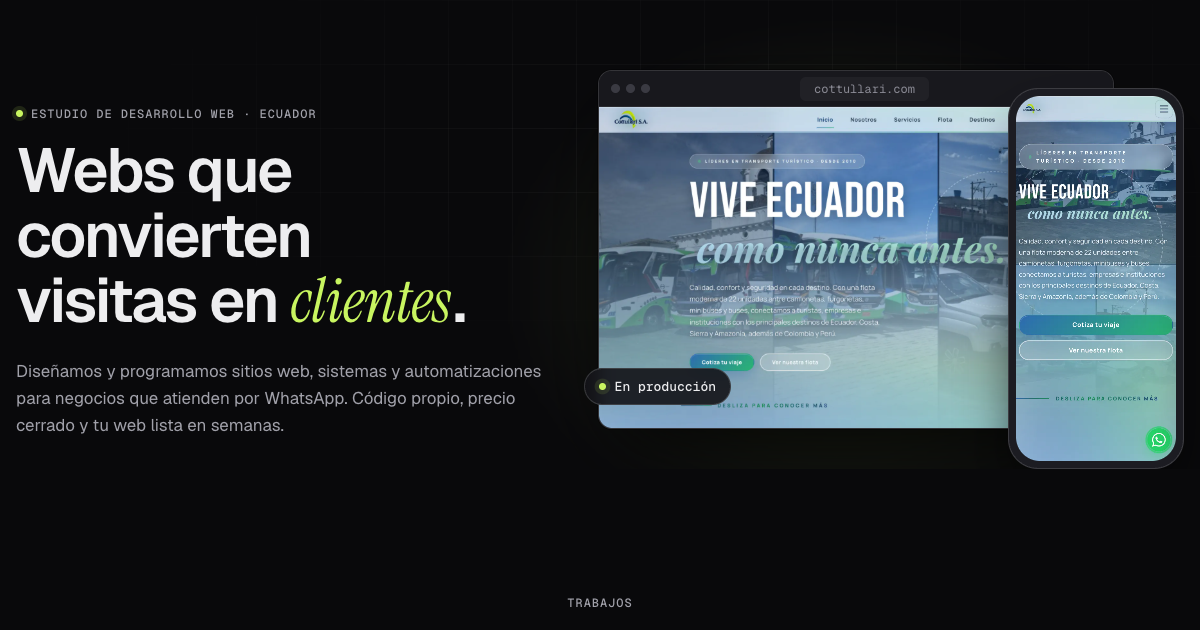
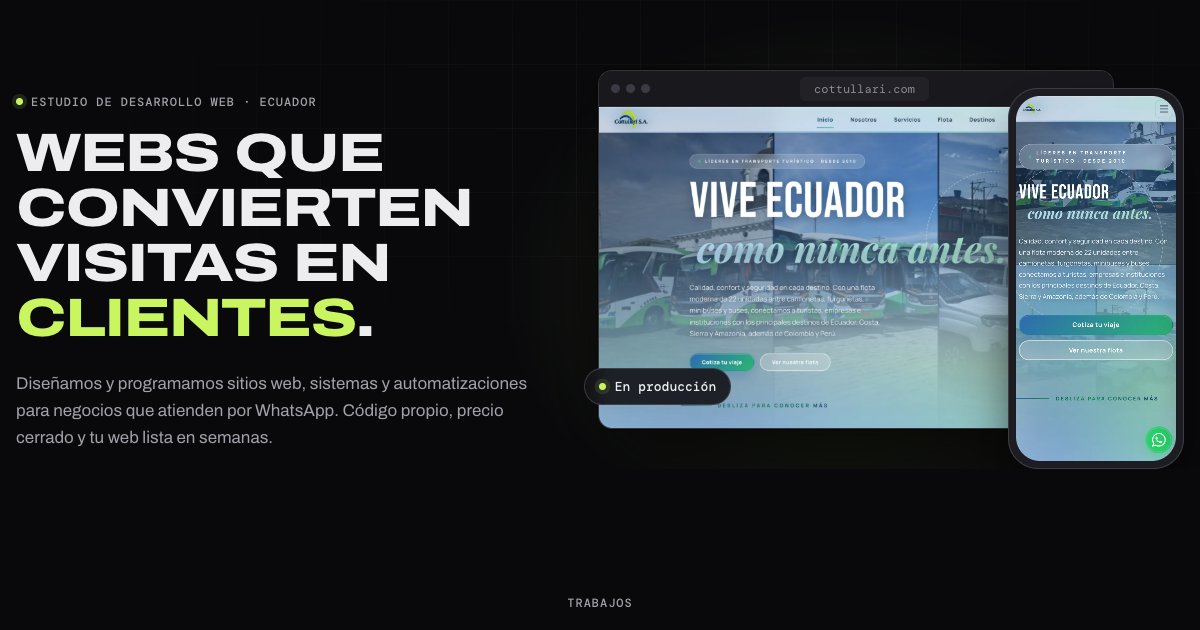
Tipografía propia: Archivo Expanded en títulos y DM Mono, sin serif itálica

Changed region(s): [[0.0, 0.1508, 0.4008, 0.5429], [0.0, 0.573, 0.4625, 0.7238], [0.5242, 0.6032, 0.5858, 0.6333]]

diff --git a/css/v2.css b/css/v2.css
@@ -13,9 +13,8 @@
   --acc-ink: #0b0d05;
   --acc-soft: rgba(200, 245, 96, .12);
   --r: 16px;
-  --sans: "Geist", ui-sans-serif, system-ui, -apple-system, "Segoe UI", sans-serif;
-  --mono: "Geist Mono", ui-monospace, SFMono-Regular, Menlo, monospace;
-  --serif: "Instrument Serif", Georgia, serif;
+  --sans: "Archivo", ui-sans-serif, system-ui, -apple-system, "Segoe UI", sans-serif;
+  --mono: "DM Mono", ui-monospace, SFMono-Regular, Menlo, monospace;
   --wrap: 1180px;
   --ease: cubic-bezier(.2, .7, .2, 1);
 }
@@ -24,9 +23,10 @@ html { scroll-behavior: smooth; -webkit-text-size-adjust: 100%; }
 body { margin: 0; background: var(--bg); color: var(--text); font: 400 16px/1.6 var(--sans); -webkit-font-smoothing: antialiased; overflow-x: hidden; }
 img { display: block; max-width: 100%; height: auto; }
 a { color: inherit; text-decoration: none; }
-h1, h2, h3 { margin: 0; font-weight: 600; letter-spacing: -.035em; line-height: 1.05; text-wrap: balance; }
+h1, h2, h3 { margin: 0; font-weight: 800; font-stretch: 125%; letter-spacing: -.025em; line-height: 1.02; text-wrap: balance; text-transform: uppercase; }
+h3 { font-weight: 700; font-stretch: 112%; text-transform: none; letter-spacing: -.02em; line-height: 1.15; }
 p { margin: 0; }
-em { font-family: var(--serif); font-style: italic; font-weight: 400; letter-spacing: -.01em; color: var(--acc); }
+em { font-style: normal; color: var(--acc); }
 :focus-visible { outline: 2px solid var(--acc); outline-offset: 3px; border-radius: 6px; }
 .wrap { width: min(100% - 32px, var(--wrap)); margin-inline: auto; }
 .skip { position: absolute; left: -9999px; top: 8px; z-index: 100; background: var(--acc); color: var(--acc-ink); padding: 8px 14px; border-radius: 8px; }
@@ -61,8 +61,8 @@ em { font-family: var(--serif); font-style: italic; font-weight: 400; letter-spa
 .nav__in { display: flex; align-items: center; gap: 24px; height: 66px; }
 .brand { display: inline-flex; align-items: center; gap: 10px; }
 .brand img { border-radius: 7px; }
-.brand__name { font: 600 19px/1 var(--sans); letter-spacing: -.04em; }
-.brand__name b { font: 500 16px/1 var(--mono); color: var(--acc); letter-spacing: -.04em; margin-left: -2px; }
+.brand__name { font: 800 19px/1 var(--sans); font-stretch: 125%; letter-spacing: -.03em; }
+.brand__name b { font-weight: 800; color: var(--acc); }
 .nav__links { display: flex; gap: 4px; margin-left: auto; }
 .nav__links a { font-size: 14px; color: var(--muted); padding: 8px 12px; border-radius: 8px; transition: color .2s, background .2s; }
 .nav__links a:hover { color: var(--text); background: rgba(255,255,255,.04); }
@@ -80,10 +80,9 @@ em { font-family: var(--serif); font-style: italic; font-weight: 400; letter-spa
 .hero__glow { position: absolute; inset: -20% -10% auto 30%; height: 760px; background: radial-gradient(closest-side, rgba(200,245,96,.13), transparent 70%); filter: blur(10px); pointer-events: none; }
 .hero::before { content: ""; position: absolute; inset: 0; background-image: linear-gradient(var(--line) 1px, transparent 1px), linear-gradient(90deg, var(--line) 1px, transparent 1px); background-size: 64px 64px; mask-image: radial-gradient(ellipse 70% 60% at 60% 30%, #000 20%, transparent 75%); -webkit-mask-image: radial-gradient(ellipse 70% 60% at 60% 30%, #000 20%, transparent 75%); opacity: .45; pointer-events: none; }
 .hero__in { position: relative; display: grid; grid-template-columns: 1fr 1.08fr; gap: 56px; align-items: center; }
-.hero h1 { font-size: clamp(44px, 6.4vw, 84px); margin-bottom: 24px; }
-.hero h1 em { padding-right: .04em; }
+.hero h1 { font-size: clamp(38px, 5.4vw, 74px); margin-bottom: 24px; }
 .proof { list-style: none; padding: 0; margin: 40px 0 0; display: flex; flex-wrap: wrap; gap: 10px 28px; color: var(--muted); font-size: 14px; }
-.proof strong { display: block; font: 600 26px/1.1 var(--sans); letter-spacing: -.03em; color: var(--text); }
+.proof strong { display: block; font: 800 26px/1.1 var(--sans); font-stretch: 125%; letter-spacing: -.03em; color: var(--text); }
 
 /* frames */
 .browser { background: var(--card); border: 1px solid var(--line-2); border-radius: 14px; overflow: hidden; box-shadow: 0 30px 80px -20px rgba(0,0,0,.8), 0 0 0 1px rgba(0,0,0,.4); }
@@ -103,7 +102,7 @@ em { font-family: var(--serif); font-style: italic; font-weight: 400; letter-spa
 .marquee { position: relative; margin-top: 80px; border-block: 1px solid var(--line); overflow: hidden; mask-image: linear-gradient(90deg, transparent, #000 12%, #000 88%, transparent); -webkit-mask-image: linear-gradient(90deg, transparent, #000 12%, #000 88%, transparent); }
 .marquee__track { display: flex; width: max-content; animation: slide 32s linear infinite; }
 .marquee:hover .marquee__track { animation-play-state: paused; }
-.marquee span { padding: 22px 40px; font: 600 20px/1 var(--sans); letter-spacing: -.03em; color: #6e6e78; white-space: nowrap; }
+.marquee span { padding: 22px 40px; font: 800 20px/1 var(--sans); font-stretch: 125%; text-transform: uppercase; letter-spacing: -.01em; color: #6e6e78; white-space: nowrap; }
 .marquee span::after { content: "✦"; margin-left: 80px; color: #3a3a42; font-size: 13px; vertical-align: middle; }
 @keyframes slide { to { transform: translateX(-50%); } }
 
@@ -112,7 +111,7 @@ em { font-family: var(--serif); font-style: italic; font-weight: 400; letter-spa
 .sec--alt { background: var(--bg-2); border-block: 1px solid var(--line); }
 .sec__head { text-align: center; max-width: 720px; margin: 0 auto 64px; }
 .sec__head--left { text-align: left; margin: 0; }
-.sec h2 { font-size: clamp(34px, 4.6vw, 56px); }
+.sec h2 { font-size: clamp(28px, 3.8vw, 48px); }
 .sec__sub { margin-top: 18px; color: var(--muted); font-size: 17px; }
 
 /* works */
@@ -186,7 +185,7 @@ em { font-family: var(--serif); font-style: italic; font-weight: 400; letter-spa
 .cta { position: relative; overflow: hidden; text-align: center; }
 .cta::before { content: ""; position: absolute; inset: auto -20% -60% -20%; height: 120%; background: radial-gradient(closest-side, rgba(200,245,96,.14), transparent 70%); pointer-events: none; }
 .cta__in { position: relative; display: flex; flex-direction: column; align-items: center; }
-.cta h2 { font-size: clamp(38px, 5.6vw, 72px); max-width: 16ch; margin-bottom: 22px; }
+.cta h2 { font-size: clamp(32px, 4.8vw, 62px); max-width: 18ch; margin-bottom: 22px; }
 .cta__small { margin-top: 24px; font: 400 13px/1 var(--mono); color: var(--dim); }
 
 /* foot */

diff --git a/index.html b/index.html
@@ -18,7 +18,7 @@
 <link rel="apple-touch-icon" href="img/brand/mark-160.png">
 <link rel="preconnect" href="https://fonts.googleapis.com">
 <link rel="preconnect" href="https://fonts.gstatic.com" crossorigin>
-<link href="https://fonts.googleapis.com/css2?family=Geist:wght@400;500;600;700&family=Geist+Mono:wght@400;500&family=Instrument+Serif:ital@1&display=swap" rel="stylesheet">
+<link href="https://fonts.googleapis.com/css2?family=Archivo:ital,wdth,wght@0,62..125,100..900;1,62..125,100..900&family=DM+Mono:wght@400;500&display=swap" rel="stylesheet">
 <link rel="preload" as="image" href="img/v2/cottullari.webp" type="image/webp">
 <link rel="stylesheet" href="css/v2.css">
 <script type="application/ld+json">
